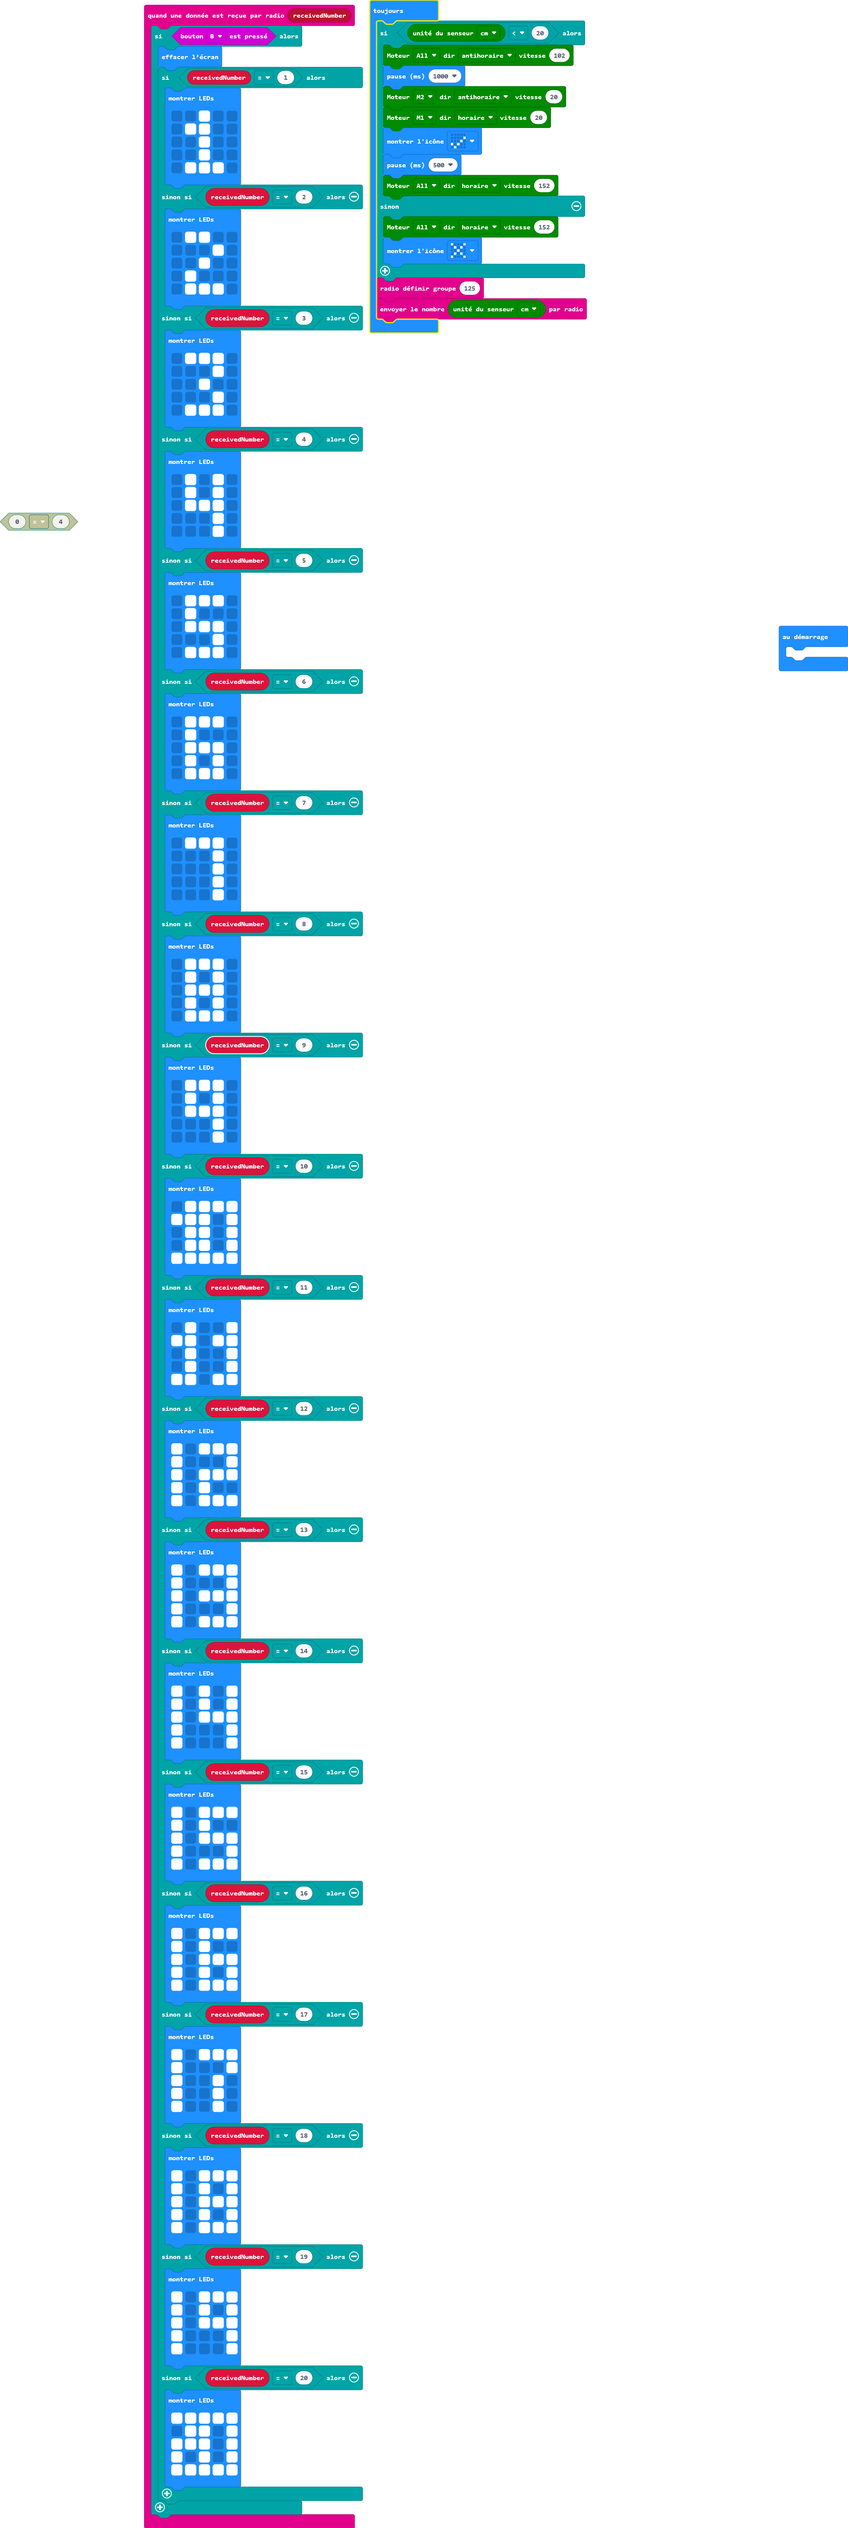
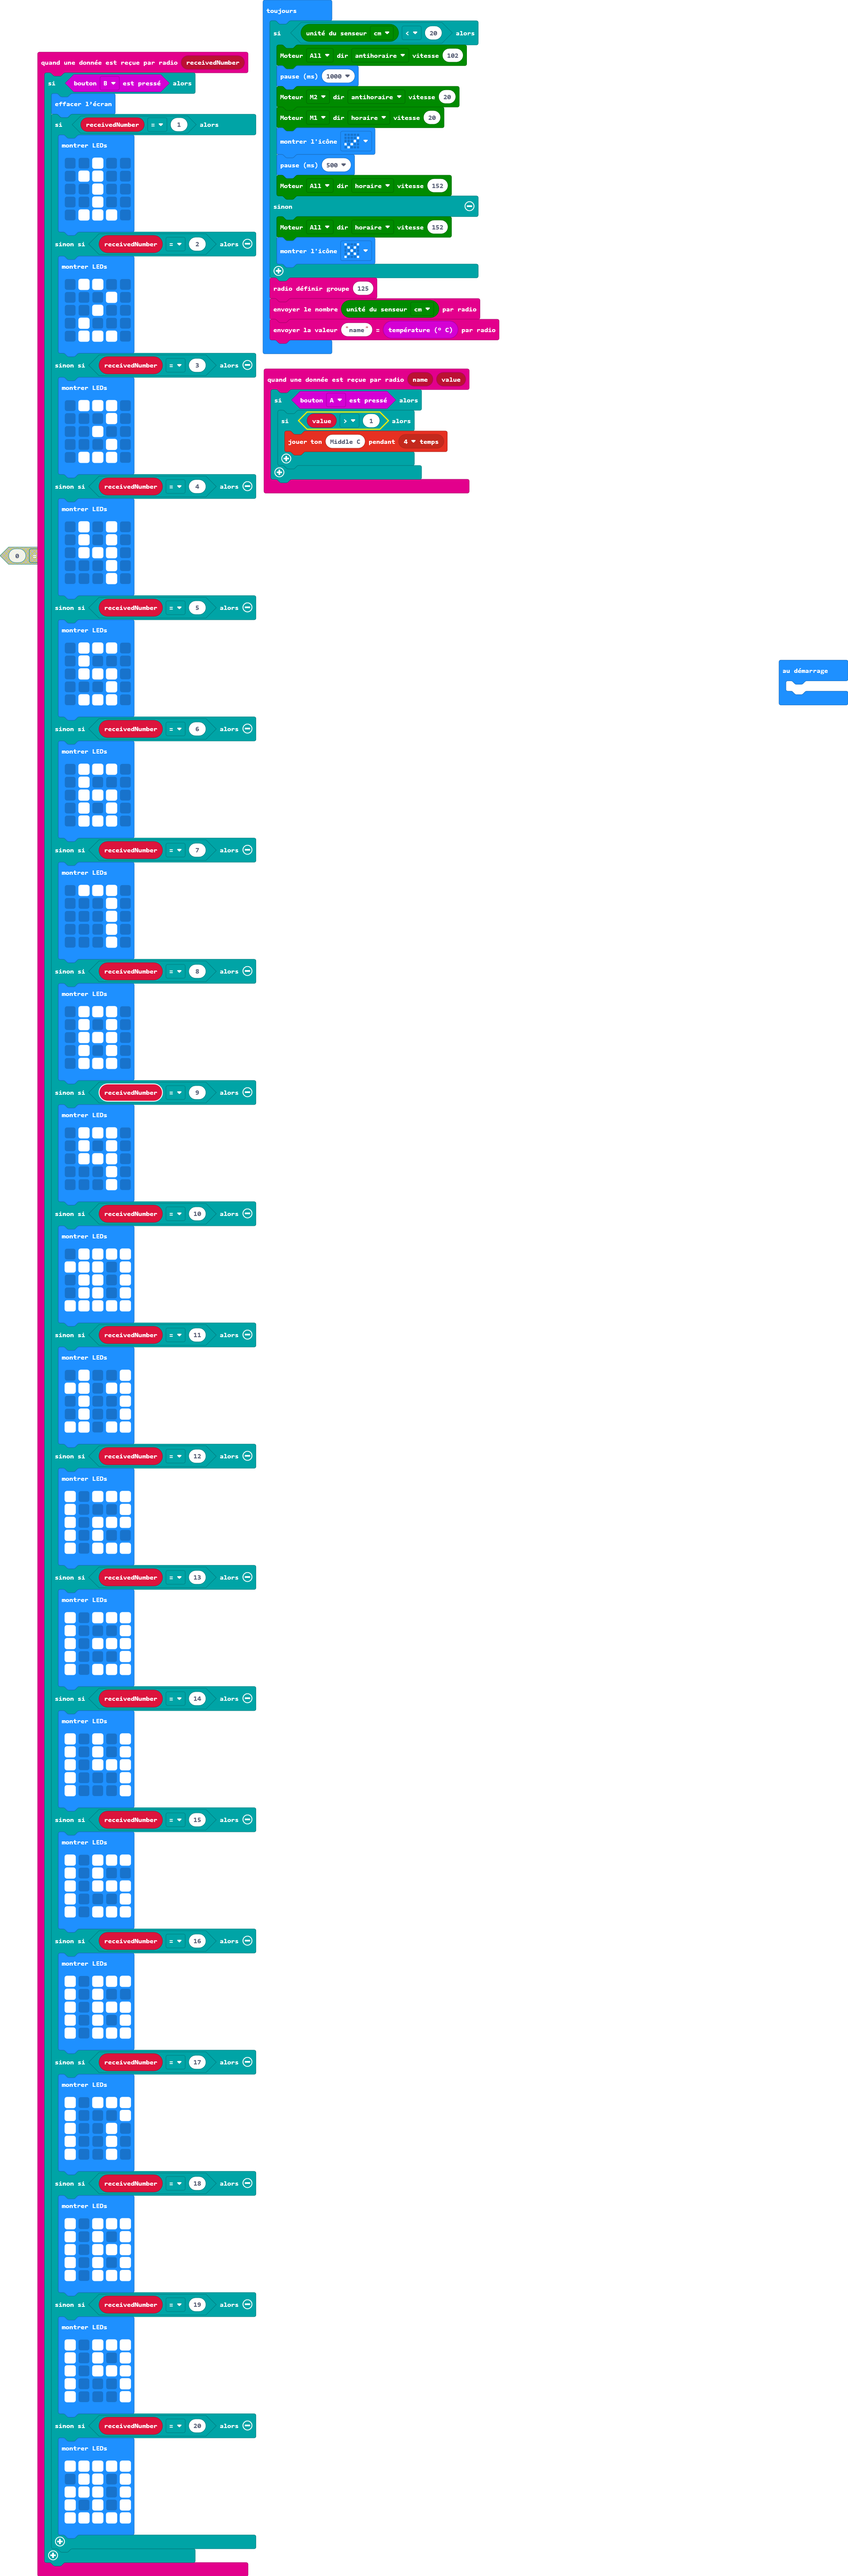
Mise à jour main.blocks, main.ts

Changed region(s): [[0.0, 0.0, 0.7133, 1.0], [0.8993, 0.2497, 1.0, 0.2809]]

diff --git a/main.ts b/main.ts
@@ -164,6 +164,13 @@ radio.onReceivedNumber(function (receivedNumber) {
         }
     }
 })
+radio.onReceivedValue(function (name, value) {
+    if (input.buttonIsPressed(Button.A)) {
+        if (value > 1) {
+            music.playTone(262, music.beat(BeatFraction.Breve))
+        }
+    }
+})
 basic.forever(function () {
     if (maqueen.Ultrasonic(PingUnit.Centimeters) < 20) {
         maqueen.motorRun(maqueen.Motors.All, maqueen.Dir.CCW, 102)
@@ -179,4 +186,5 @@ basic.forever(function () {
     }
     radio.setGroup(125)
     radio.sendNumber(maqueen.Ultrasonic(PingUnit.Centimeters))
+    radio.sendValue("name", input.temperature())
 })
